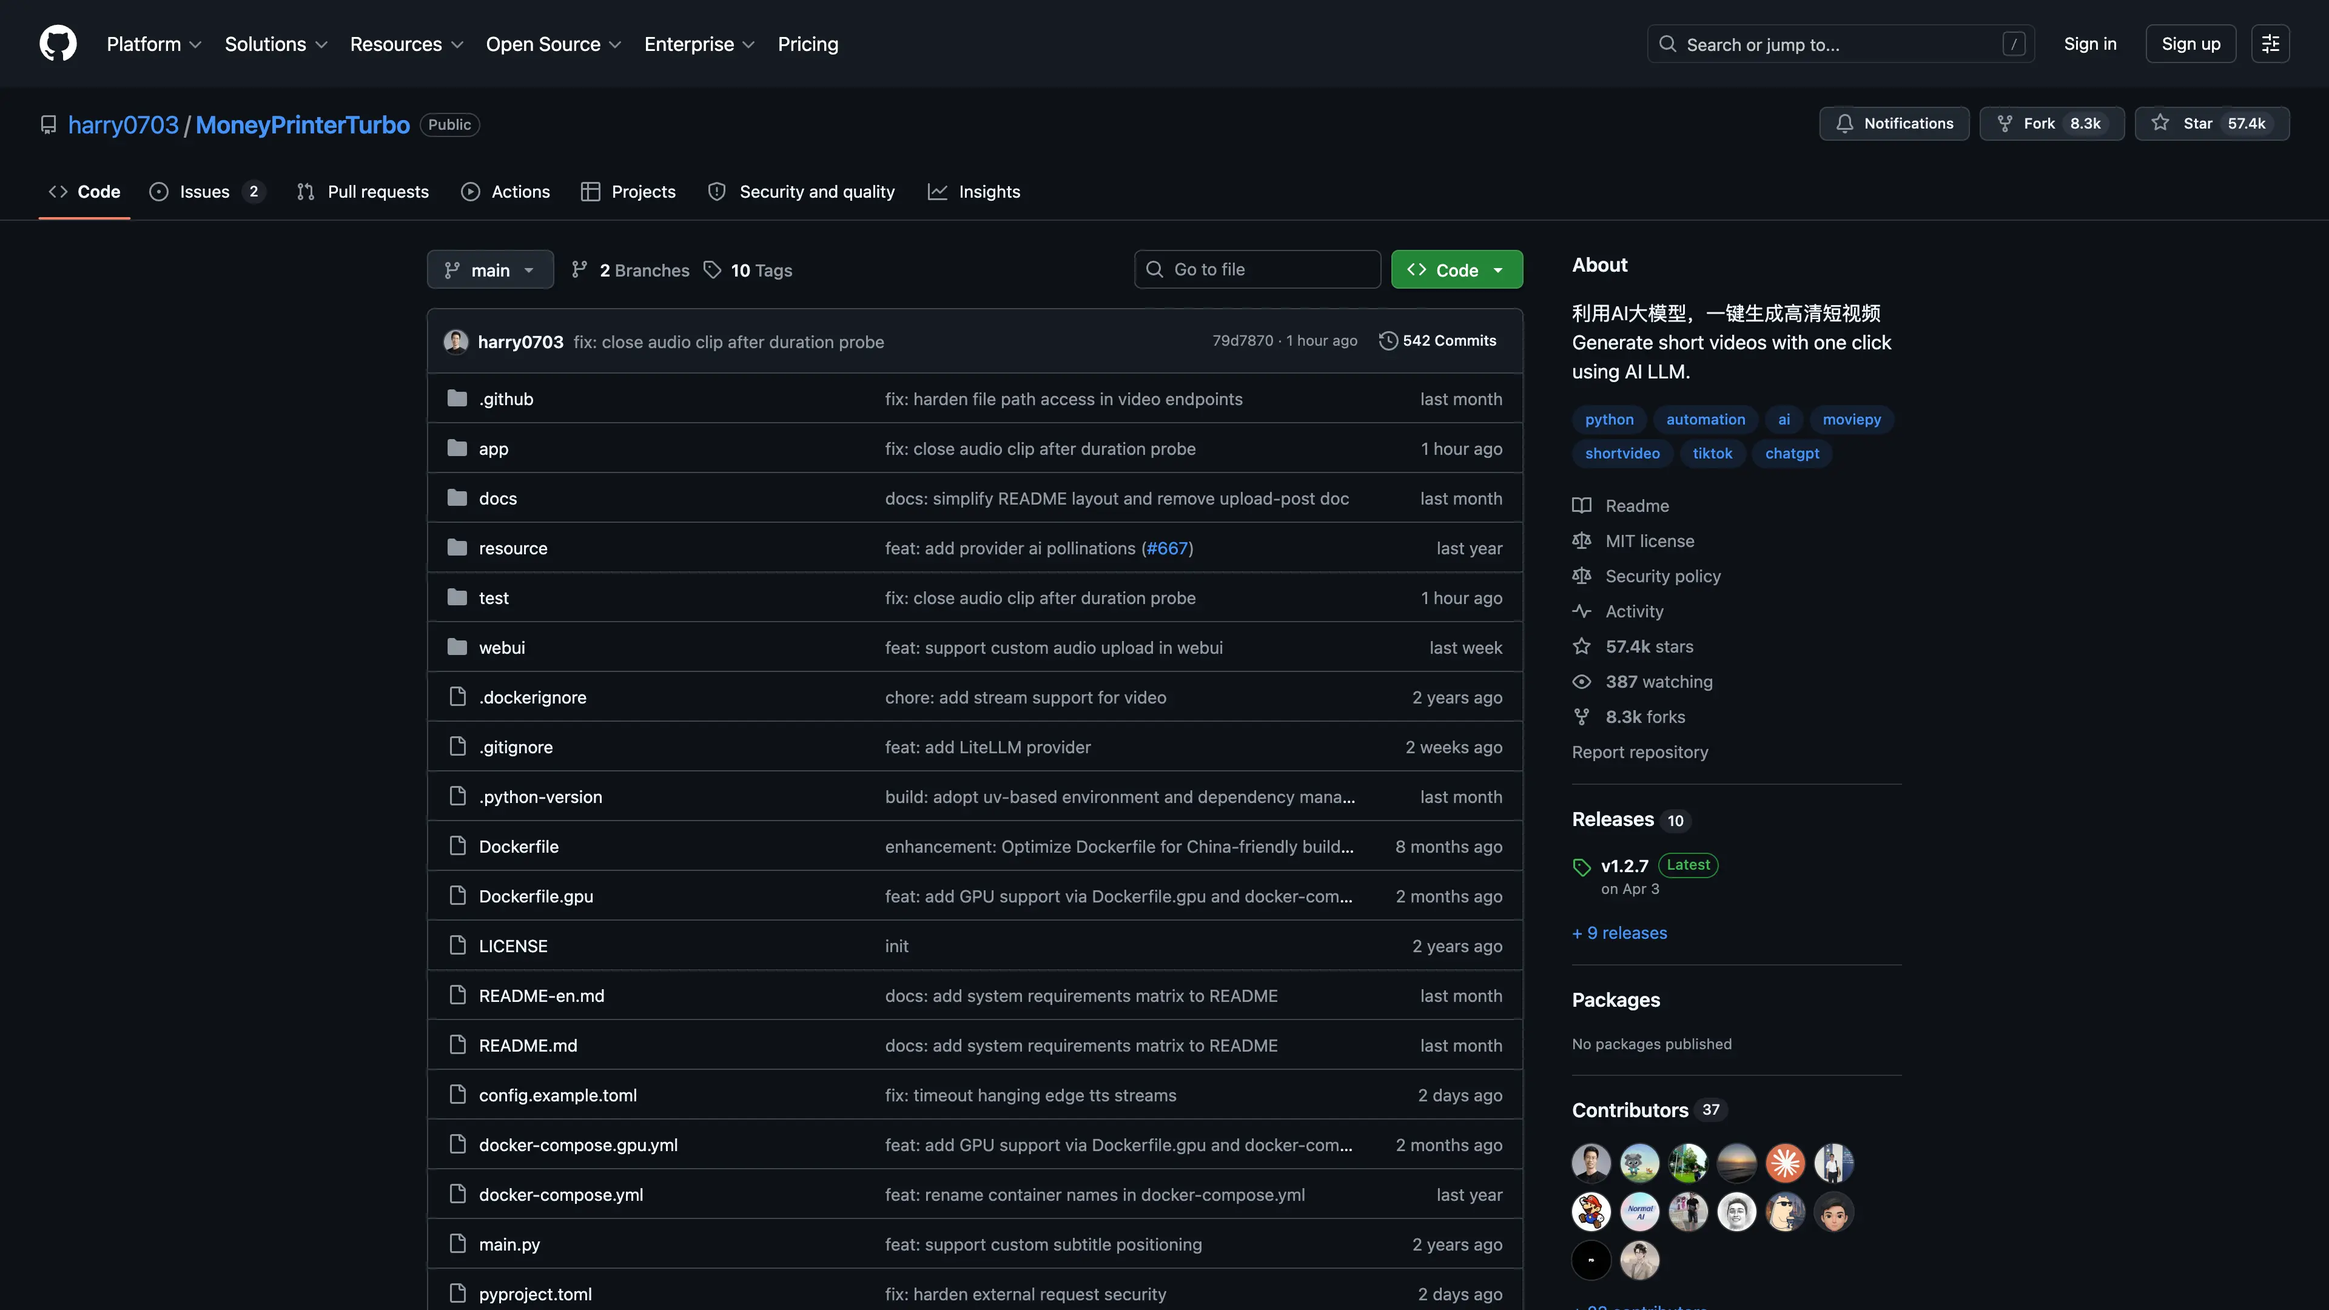
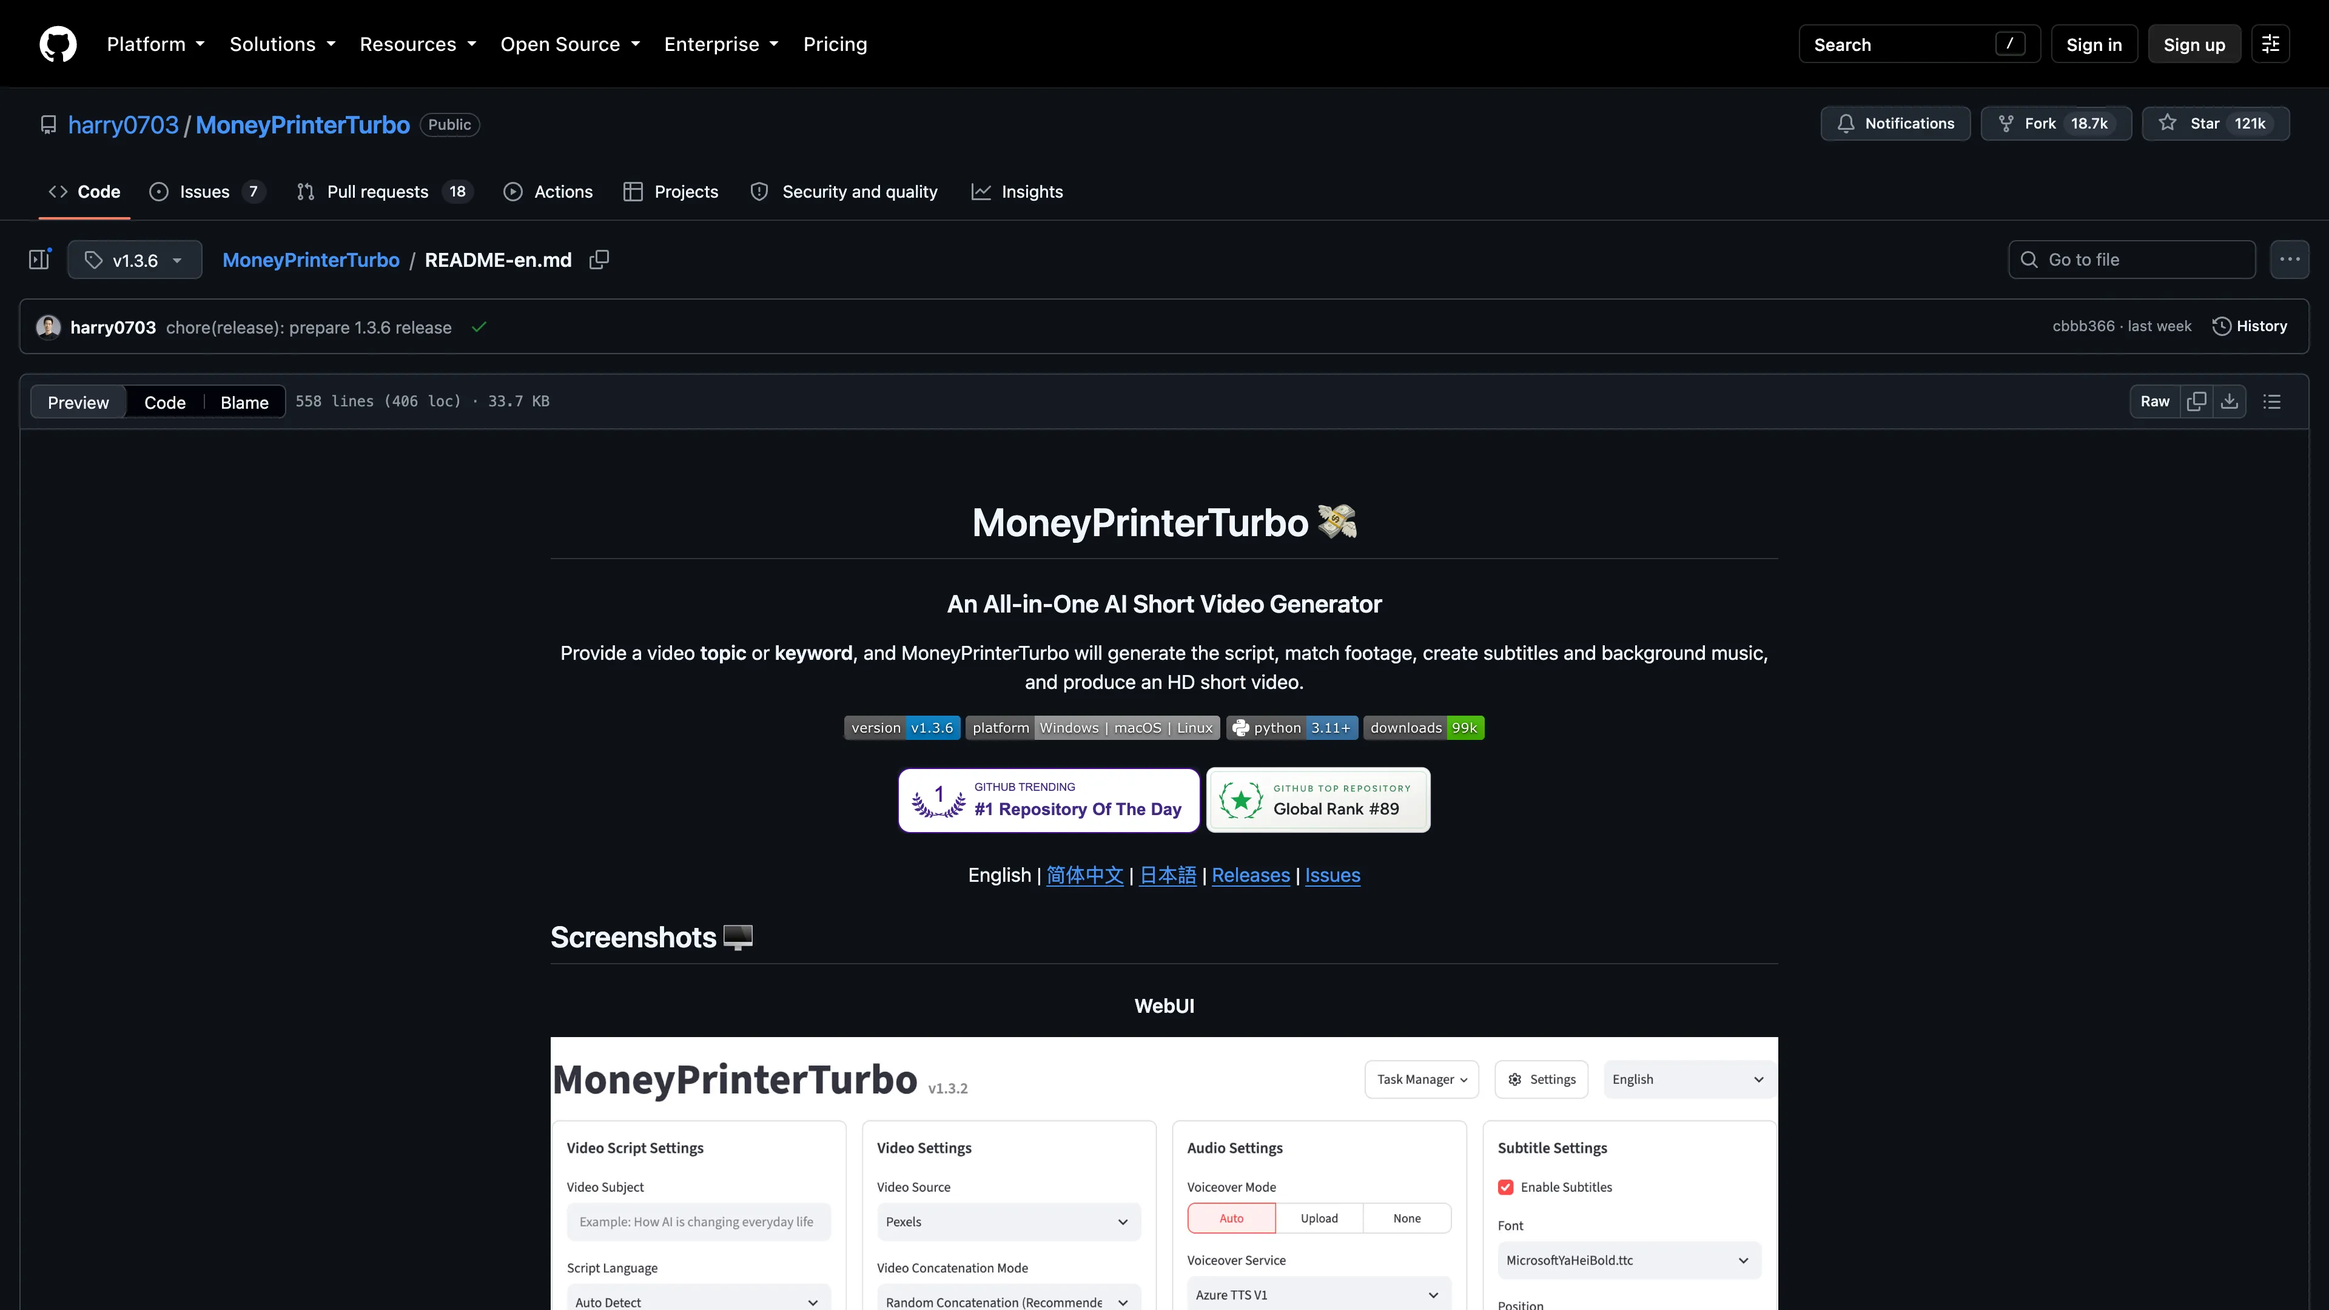
Fix MoneyPrinterTurbo persistence and validate v1.3.6 runtime (#757)
* Fix MoneyPrinterTurbo persistence and validate v1.3.6 runtime

* Remove MoneyPrinterTurbo runtime check script

diff --git a/template/moneyprinterturbo/README.md b/template/moneyprinterturbo/README.md
@@ -1,28 +1,82 @@
-# MoneyPrinterTurbo
+# Deploy and Host MoneyPrinterTurbo on Sealos
 
-## Overview
+MoneyPrinterTurbo turns a topic or script into a short video with footage, narration, subtitles, and background music. This template runs the official v1.3.6 WebUI with persistent configuration and video storage on Sealos.
 
-利用AI大模型，一键生成高清短视频。只需提供一个视频 主题 或 关键词 ，就可以全自动生成视频文案、视频素材、视频字幕、视频背景音乐，然后合成一个高清的短视频。
+![MoneyPrinterTurbo project screenshot](https://raw.githubusercontent.com/labring-actions/templates/kb-0.9/template/moneyprinterturbo/website-screenshot.webp)
 
-This Sealos template deploys **MoneyPrinterTurbo** as the `moneyprinterturbo` application. It uses the repository-maintained Sealos manifest and keeps deployment, networking, and storage configuration inside the template.
+## About Hosting MoneyPrinterTurbo
 
-## Deploy on Sealos
+The Streamlit WebUI provides controls for script generation, material selection, voiceover, subtitles, and video export. Cloud providers supply optional AI services, while FFmpeg processes and combines videos inside the application container.
 
-Open this template in the Sealos App Store, review the configuration values, and click **Deploy**. Sealos renders the template variables, creates the required Kubernetes resources, and manages the public endpoint for the application.
+Sealos provisions one application instance, a persistent volume, and an HTTPS address. Saved settings, uploaded materials, and generated files share persistent storage and survive Pod replacement. The application uses shared, single-user settings.
 
-## Access
+## Common Use Cases
 
-After deployment, open `https://${{ defaults.app_host }}.${{ SEALOS_CLOUD_DOMAIN }}`. The concrete hostname is generated from `defaults.app_host` and your Sealos Cloud domain.
+- **Short social videos**: Combine scripts, stock footage, narration, and captions.
+- **Local video editing**: Upload your own clips and select framing, transitions, and audio options.
+- **Multilingual content**: Choose supported text and voice providers for different languages.
+- **Repeatable video styles**: Export and import generation presets through the WebUI.
 
-## Configuration
+## Dependencies for MoneyPrinterTurbo Hosting
 
-The following user-facing inputs are available during deployment:
+The official image includes Python, Streamlit, FFmpeg, fonts, and application dependencies. Cloud script generation and online material providers require their own API keys, configured after deployment.
 
-This template does not define extra user inputs; the default settings are enough to deploy it.
+### Deployment Dependencies
 
-Keep sensitive values in Sealos-managed inputs or generated defaults. Do not commit private credentials to the template repository.
+- [Official English documentation](https://github.com/harry0703/MoneyPrinterTurbo/blob/v1.3.6/README-en.md)
+- [Configuration reference](https://github.com/harry0703/MoneyPrinterTurbo/blob/v1.3.6/config.example.toml)
+- [Release notes](https://github.com/harry0703/MoneyPrinterTurbo/releases/tag/v1.3.6)
+- [Community support](https://github.com/harry0703/MoneyPrinterTurbo/issues)
 
-## Official Links
+### Implementation Details
 
-- Official website: https://github.com/harry0703/MoneyPrinterTurbo
-- Source repository: https://github.com/harry0703/MoneyPrinterTurbo
+| Component | Configuration |
+| --- | --- |
+| Application | One StatefulSet replica using `ghcr.io/harry0703/moneyprinterturbo:v1.3.6` |
+| Web entry | Streamlit on port 8501, exposed through HTTPS |
+| Application resources | Limits: 4 CPU, 4096Mi RAM; requests: 400m CPU, 409Mi RAM |
+| Configuration initialization | Limits: 100m CPU, 128Mi RAM; requests: 10m CPU, 12Mi RAM |
+| Persistent storage | One 1Gi volume mounted at `/MoneyPrinterTurbo/storage` |
+| Saved configuration | `/MoneyPrinterTurbo/storage/config.toml`, loaded through `/MoneyPrinterTurbo/config.toml` |
+
+The resource limits follow the upstream minimum of 4 CPU cores and 4 GB RAM. Live validation covered cold startup, settings changes, local material upload, and a 1080×1920 video render. Larger videos, batch jobs, or local Whisper models need additional capacity; increase storage before downloading large models.
+
+This template preserves the existing WebUI-only topology. Its storage backend is the local filesystem; optional Redis task state and the separate upstream API service remain outside this deployment.
+
+MoneyPrinterTurbo is licensed under the MIT License.
+
+## Why Deploy MoneyPrinterTurbo on Sealos?
+
+Sealos provides a Kubernetes foundation with one-click deployment, managed HTTPS, persistent storage, and resource monitoring. Pay-as-you-go billing and adjustable resource limits let you match capacity to your workload. After deployment, use the Canvas AI dialog or resource cards to manage the application.
+
+## Deployment Guide
+
+1. Open the [MoneyPrinterTurbo template](https://sealos.io/products/app-store/moneyprinterturbo) and click **Deploy Now**.
+2. Review the application resources and deploy. Configure provider API keys in the WebUI after startup.
+3. Wait for deployment to finish, typically 2-3 minutes; the first image pull may take longer. Open the deployment Canvas and use the application's public URL.
+4. The WebUI opens directly. **This release has no built-in WebUI registration or login.** Anyone who can reach the URL can operate the application and its shared settings. Restrict access to trusted users before entering provider credentials.
+5. Use **Language / 语言** to choose your language. Open **Settings** or **Configure AI model** to configure a provider and its API key; configure online footage credentials through **Configure material sources**.
+6. Enter a topic or script, choose your video and audio options, and click **Generate Video**. When processing finishes, preview the result and click **Download Video**.
+
+### Try a Local Video
+
+For a provider-independent check, upload a clip at least 480×480 pixels using **Video Source → Local file**, enter a script, select **Voiceover Mode → None** and **No Background Music**, and clear **Enable Subtitles**. Click **Generate Video** and download the result. A 3-second 640×640 test clip was successfully rendered as a portrait 1080×1920 video.
+
+## Configuration and Storage
+
+Settings are saved automatically. The initialization container copies the official example only when the persistent configuration file is absent. The launcher places configuration temporary files on the same volume as the saved file so updates remain atomic.
+
+Use **Settings Preset** to export or import video settings. Provider credentials can be backed up through **Settings → Key Backup**; keep exported key files private. Download videos you want to retain and manage the 1Gi storage allocation through the Canvas resource card.
+
+For an existing deployment using the older volume claim name, back up configuration and video data before adopting this template. The normalized claim name creates a different PVC; transfer the backup to the new deployment and verify it before removing the old storage.
+
+## Troubleshooting
+
+- **Provider credentials requested**: Configure the selected cloud service in Settings, or use the local-video workflow above.
+- **Local footage rejected**: Supply valid video files with both dimensions at least 480 pixels.
+- **Large uploads rejected**: The Ingress accepts requests up to 32 MB. Increase its body-size limit for larger uploads and check Streamlit's upload-size setting.
+- **Slow rendering or full storage**: Inspect the resource cards and logs in Canvas. Increase CPU, RAM, or disk for longer videos and local transcription models.
+
+## License
+
+MoneyPrinterTurbo is distributed under the [MIT License](https://github.com/harry0703/MoneyPrinterTurbo/blob/v1.3.6/LICENSE). This template follows the licensing terms of the Sealos templates repository.

diff --git a/template/moneyprinterturbo/README_zh.md b/template/moneyprinterturbo/README_zh.md
@@ -1,28 +1,82 @@
-# MoneyPrinterTurbo
+# 在 Sealos 上部署和托管 MoneyPrinterTurbo
 
-## 应用概览
+MoneyPrinterTurbo 可将主题或文案制作成短视频，支持素材、配音、字幕和背景音乐。本模板在 Sealos 上运行官方 v1.3.6 WebUI，并持久化保存配置和视频文件。
 
-MoneyPrinterTurbo 是一个可在 Sealos 上一键部署的应用，模板会创建所需资源并提供应用访问入口。
+![MoneyPrinterTurbo 项目截图](https://raw.githubusercontent.com/labring-actions/templates/kb-0.9/template/moneyprinterturbo/website-screenshot.webp)
 
-此 Sealos 模板会将 **MoneyPrinterTurbo** 部署为 `moneyprinterturbo` 应用。部署、网络和存储配置都由仓库中的 Sealos 模板维护。
+## 关于 MoneyPrinterTurbo 托管
 
-## 在 Sealos 上部署
+Streamlit 网页界面提供文案生成、素材选择、配音、字幕和视频导出功能。可选的云服务提供 AI 能力，应用容器内的 FFmpeg 负责视频处理与合成。
 
-在 Sealos 应用商店打开此模板，检查配置项后点击 **部署**。Sealos 会渲染模板变量，创建所需的 Kubernetes 资源，并为应用管理公网访问入口。
+Sealos 会创建一个应用实例、一块持久卷和一个 HTTPS 访问地址。已保存的设置、上传素材和生成文件共用持久存储，Pod 重建后仍会保留。应用采用单用户共享配置模式。
 
-## 访问方式
+## 常见使用场景
 
-部署完成后，打开 `https://${{ defaults.app_host }}.${{ SEALOS_CLOUD_DOMAIN }}`。实际域名由 `defaults.app_host` 和当前 Sealos Cloud 域名生成。
+- **社交平台短视频**：组合文案、素材、配音和字幕。
+- **本地视频编辑**：上传自己的视频，设置画面比例、转场和音频。
+- **多语言内容制作**：选择支持目标语言的文本和配音服务。
+- **复用视频风格**：通过网页导入、导出生成参数预设。
 
-## 配置说明
+## MoneyPrinterTurbo 托管依赖
 
-部署时可以配置以下用户可见输入项：
+官方镜像包含 Python、Streamlit、FFmpeg、字体和应用依赖。云端文案生成与在线素材服务需要对应的 API Key，可在部署完成后配置。
 
-此模板没有额外的用户输入项；保留默认配置即可完成部署。
+### 部署参考
 
-请将敏感信息保存在 Sealos 管理的输入项或生成默认值中，不要把私有凭据提交到模板仓库。
+- [官方英文文档](https://github.com/harry0703/MoneyPrinterTurbo/blob/v1.3.6/README-en.md)
+- [配置参考](https://github.com/harry0703/MoneyPrinterTurbo/blob/v1.3.6/config.example.toml)
+- [版本说明](https://github.com/harry0703/MoneyPrinterTurbo/releases/tag/v1.3.6)
+- [社区支持](https://github.com/harry0703/MoneyPrinterTurbo/issues)
 
-## 官方链接
+### 实现细节
 
-- 官方网站: https://github.com/harry0703/MoneyPrinterTurbo
-- 源码仓库: https://github.com/harry0703/MoneyPrinterTurbo
+| 组件 | 配置 |
+| --- | --- |
+| 应用 | 单副本 StatefulSet，使用 `ghcr.io/harry0703/moneyprinterturbo:v1.3.6` |
+| 网页入口 | Streamlit 监听 8501 端口，通过 HTTPS 提供访问 |
+| 应用资源 | 上限：4 CPU、4096Mi 内存；请求：400m CPU、409Mi 内存 |
+| 配置初始化 | 上限：100m CPU、128Mi 内存；请求：10m CPU、12Mi 内存 |
+| 持久存储 | 一块 1Gi 持久卷，挂载至 `/MoneyPrinterTurbo/storage` |
+| 配置保存位置 | `/MoneyPrinterTurbo/storage/config.toml`，通过 `/MoneyPrinterTurbo/config.toml` 加载 |
+
+资源上限遵循上游规定的最低 4 核 CPU、4 GB 内存。线上验证覆盖了冷启动、设置修改、本地素材上传和 1080×1920 视频合成。较长视频、批量任务和本地 Whisper 模型需要更多资源；下载大型模型前请扩容存储。
+
+本模板保留原有的独立 WebUI 架构，采用本地文件系统保存数据。上游可选的 Redis 任务状态服务及独立 API 服务属于此部署之外的扩展组件。
+
+MoneyPrinterTurbo 采用 MIT 许可证。
+
+## 为什么在 Sealos 上部署 MoneyPrinterTurbo？
+
+Sealos 基于 Kubernetes，提供一键部署、托管 HTTPS、持久存储和资源监控。按量计费与可调整的资源上限便于匹配实际工作负载。部署完成后，可通过 Canvas 中的 AI 对话或资源卡片管理应用。
+
+## 部署指南
+
+1. 打开 [MoneyPrinterTurbo 模板页面](https://sealos.io/products/app-store/moneyprinterturbo)，点击 **Deploy Now**。
+2. 确认应用资源后部署。服务商 API Key 可在应用启动后通过网页配置。
+3. 等待部署完成，通常需要 2-3 分钟；首次拉取镜像可能耗时更久。进入部署的 Canvas，打开应用提供的公网地址。
+4. 网页会直接进入操作界面。**此版本的 WebUI 无内置注册或登录功能。** 能访问该地址的人都可以操作应用和共享设置。填写服务商凭据前，请将访问范围限制为可信用户。
+5. 使用 **Language / 语言** 切换界面语言。打开 **设置（Settings）** 或 **配置大模型（Configure AI model）**，选择服务商并填写 API Key；通过 **配置素材来源（Configure material sources）** 配置在线素材凭据。
+6. 填写主题或文案，选择视频和音频设置，点击 **生成视频（Generate Video）**。完成后预览结果，点击 **下载视频（Download Video）**。
+
+### 体验本地视频流程
+
+验证本地处理流程时，可在 **视频来源 → 本地文件** 中上传宽高均至少为 480 像素的视频，填写文案，选择 **配音模式 → 无配音**、**无背景音乐**，并清除 **启用字幕**。点击 **生成视频** 后下载结果。测试中，3 秒的 640×640 素材成功生成了 1080×1920 竖屏视频。
+
+## 配置与存储
+
+设置会自动保存。初始化容器仅在持久化配置文件尚未创建时复制官方示例。启动器将配置临时文件和保存文件放在同一持久卷内，保证原子更新。
+
+通过 **参数预设（Settings Preset）** 导入或导出视频设置。服务商凭据可通过 **设置 → 密钥备份（Key Backup）** 导出，请妥善保管密钥文件。及时下载需要保留的视频，并通过 Canvas 资源卡片管理 1Gi 存储配额。
+
+现有部署使用旧版持久卷声明名称时，采用本模板前请备份配置和视频数据。规范化后的声明名称会创建新的 PVC；将备份迁移至新部署并验证后，再清理旧存储。
+
+## 故障排查
+
+- **提示填写服务商凭据**：在设置中配置选定的云服务，或使用上述本地视频流程。
+- **本地素材被拒绝**：上传有效的视频文件，并确保宽高均至少为 480 像素。
+- **大文件上传被拒绝**：Ingress 当前允许最多 32 MB 的请求。上传更大文件时，请提高请求体大小上限，并检查 Streamlit 的上传大小设置。
+- **合成较慢或存储已满**：在 Canvas 查看资源卡片与日志。较长视频和本地转录模型需要相应增加 CPU、内存或存储容量。
+
+## 许可证
+
+MoneyPrinterTurbo 采用 [MIT 许可证](https://github.com/harry0703/MoneyPrinterTurbo/blob/v1.3.6/LICENSE)。本模板遵循 Sealos 模板仓库的许可条款。
